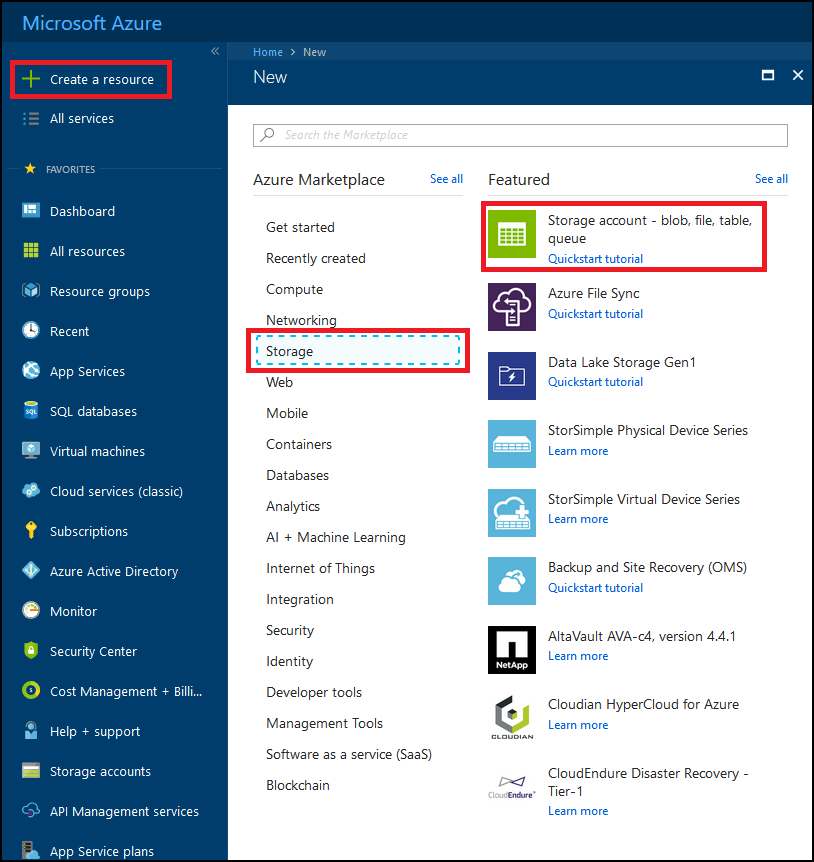
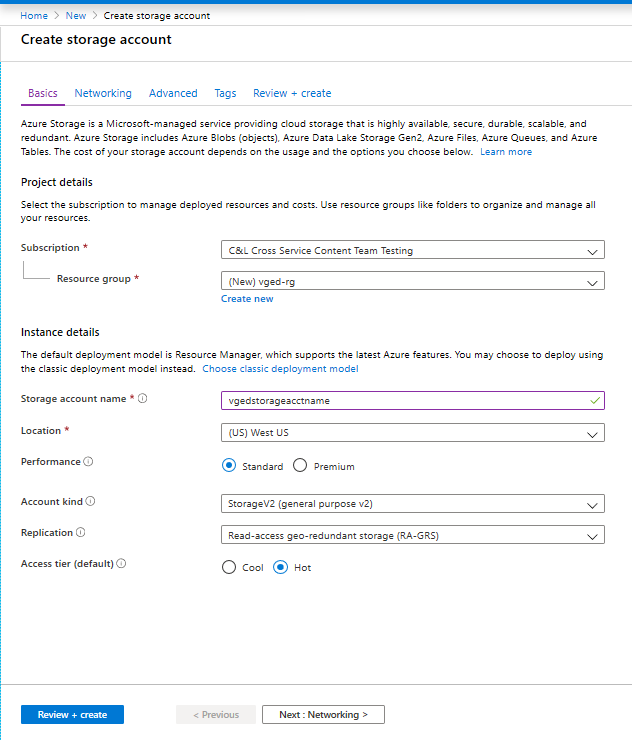
Updated screen shots and accompanying text

diff --git a/java/spring-framework/configure-spring-boot-starter-java-app-with-azure-storage.md b/java/spring-framework/configure-spring-boot-starter-java-app-with-azure-storage.md
@@ -4,7 +4,7 @@ description: Learn how to configure a Spring Boot Initializer app with the Azure
 services: storage
 documentationcenter: java
 author: bmitchell287
-manager: douge
+manager: JeanPaul.Connock
 editor: ''
 ms.assetid:
 ms.author: brendm
@@ -44,29 +44,21 @@ The following prerequisites are required in order to follow the steps in this ar
 
    ![Create Azure Storage Account][IMG01]
 
-1. On the **Create Namespace** page, enter the following information:
+1. On the **Create storage account** page, enter the following information:
 
-   * Enter a unique **Name**, which will become part of the URI for your storage account. For example: if you entered **wingtiptoysstorage** for the **Name**, the URI would be *wingtiptoysstorage.core.windows.net*.
-   * Choose **Blob storage** for the **Account kind**.
+   * Select **Subscription**.
+   * Select **Resource group**, or create a new resource group.
+   * Enter a unique **Storage account name**, which will become part of the URI for your storage account. For example: if you entered **wingtiptoysstorage** for the **Name**, the URI would be *wingtiptoysstorage.core.windows.net*.
    * Specify the **Location** for your storage account.
-   * Choose the **Subscription** you want to use for your storage account.
-   * Specify whether to create a new **Resource group** for your storage account, or choose an existing resource group.
-
-   ![Specify Azure Storage Account options][IMG02]
-
-1. When you have specified the options listed above, click **Create** to create your storage account.
-
-1. When the Azure portal has created your storage account, click **Blobs**, then click **+Container**.
-
-   ![Create blob container][IMG03]
-
-1. Enter a **Name** for your blob container, and then click **OK**.
-
-   ![Specify blob container options][IMG04]
+1. When you have specified the options listed above, click **Review + create** to create your storage account.
+1. When the deployment is complete, click **Go to resource**.
+1. Click **Containers**.
+1. Click **+ Container**.
+   * Name the container.
+   * Select *Blob* from the drop-down list.
+   ![Create blob container][IMG02]
 
 1. The Azure portal will list your blob container after is has been created.
-
-   ![Reviewing the list of blob containers][IMG05]
 
 ## Create a simple Spring Boot application with the Spring Initializr
 
@@ -74,7 +66,8 @@ The following prerequisites are required in order to follow the steps in this ar
 
 1. Specify the following options:
 
-   * Generate a **Maven** project with **Java**.
+   * Generate a **Maven** project.
+   * Specify **Java**.
    * Specify a **Spring Boot** version that is equal to or greater than 2.0.
    * Specify the **Group** and **Artifact** names for your application.
    * Add the **Web** dependency.
@@ -86,13 +79,11 @@ The following prerequisites are required in order to follow the steps in this ar
    > The Spring Initializr uses the **Group** and **Artifact** names to create the package name; for example: *com.wingtiptoys.storage*.
    >
 
-1. When you have specified the options listed above, click **Generate Project**.
+1. When you have specified the options listed above, click **Generate**.
 
 1. When prompted, download the project to a path on your local computer.
 
-   ![Download Spring project][SI02]
-
-1. After you have extracted the files on your local system, your simple Spring Boot application will be ready for editing.
+1. After you have extracted the files on your local system, your simple Spring Boot application will be ready to edit.
 
 ## Configure your Spring Boot app to use the Azure Storage starter
 
